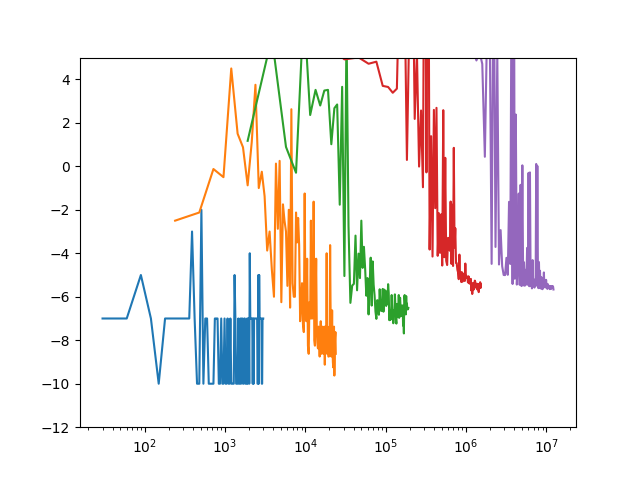
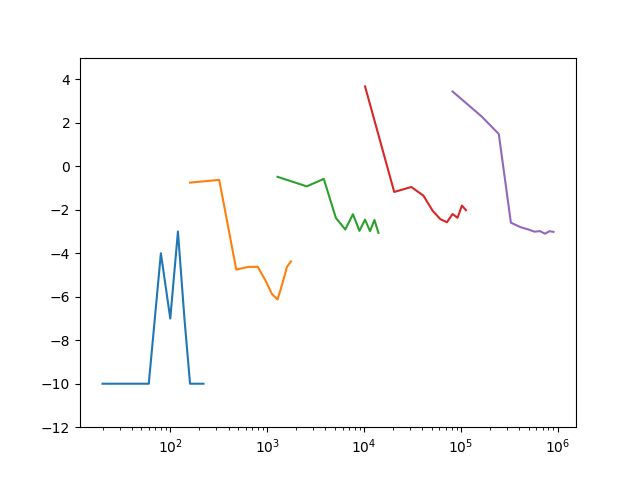
totototo

diff --git a/main.cpp b/main.cpp
@@ -75,11 +75,11 @@ std::ostream& operator<<(std::ostream& os, QUSO quso){
 int toto() {
     int seed = 200;
     int num_init_points = 10;
-    int num_eval = 30;
-    // BaseGenerator* rd = RandGeneratorFactory::CreateRandGenerator(seed, GeneratorKind::LCG);
+    BaseGenerator* rd = RandGeneratorFactory::CreateRandGenerator(seed, GeneratorKind::LCG);
     int size = 8;
-    int layers = 6;
-    int max_iter = 100;
+    int layers = 5;
+    int max_iter = 200;
+    int opt_step = 20;
     QUBO qubo(size);
     for (int i=0; i<size; i++ ){
         qubo.A(i) = 0;
@@ -94,13 +94,12 @@ int toto() {
     HamDiag ham = quso.to_diag_Ham();
     QuantumCircuit qc = qc_data.first.decompose().decompose();
     ShotsVQE exec(qc_data.first, ham);
-    exec.num_eval = num_eval;
     nlopt::opt opti(nlopt::LN_COBYLA, qc_data.second.size());
     // nlopt::LN_BOBYQA
     // nlopt::opt opti(nlopt::LN_NELDERMEAD, qc_data.second.size());
 
     std::vector<double> res;
-    opt::Nlopt_Optimizer nl(opti, exec, qc_data.second, max_iter, 1e-7);
+    opt::Nlopt_Optimizer nl(opti, exec, qc_data.second, opt_step, 1e-7);
     
     double minf;
     DoubleVec x = qc_data.second.get_row_values();
@@ -113,26 +112,31 @@ int toto() {
     DoubleVec _y(max_num_shots/step);
     for (int i=0; i<5;i++ ){
         exec.set_shots(step);
-        exec.num = 0;
         double min_minf=100000000;
-        
         for (int k=0; k < num_init_points; k++){
+            DoubleVec __x;
+            DoubleVec __y;
+            exec.num = 0;
             for (int j=0; j<x.size(); j++){
-                // x[j] = rd->get_double(-pi, pi);
-                x[j] = (double(std::rand())/INT32_MAX-0.5)*pi;
+                x[j] = rd->get_double(-pi, pi);
+                // x[j] = (double(std::rand())/INT32_MAX-0.5)*pi;
             }
             nlopt::result result = nl.optimize(x, minf);
-            std::cout << "found minimum at f(" << x[0] << "," << x[1] << ") = "
-                << std::setprecision(10) << minf << std::endl;
+            __x.push_back(exec.num);
+            __y.push_back(nl.opt.last_optimum_value());
+            for (int j=0; j<max_iter/opt_step; j++){
+                nlopt::result result = nl.optimize(x, minf);
+                __x.push_back(exec.num);
+                __y.push_back(minf);
+                // minf = nl.opt.last_optimum_value()
+            }
             if (min_minf > minf){
                 min_minf = minf;
-                _y = nl.get_res_array();
+                _y = __y;
+                _x = __x;
             }
-            DoubleVec __x;
-            for (int j=1; j<_y.size()+1; j++){
-                __x.push_back(j*(step)*num_eval);
-            }
-            _x = __x;
+            std::cout << "found minimum at f(" << x[0] << "," << x[1] << ") = "
+                << std::setprecision(10) << minf << std::endl;
         }
         step = step*8;
         plt.set_x(_x);
@@ -147,7 +151,7 @@ int toto() {
     plt.save();
     
     std::cout << ans.first << " "<<ans.second<<std::endl;
-    // delete rd;
+    delete rd;
     return 0;
 }
 

diff --git a/quanlib/src/StateSimulator/shots_provider.h b/quanlib/src/StateSimulator/shots_provider.h
@@ -30,24 +30,15 @@ public:
     ShotsVQE(const QuantumCircuit& qc, const Hamiltonian& Ham, size_t shots=1024): StateVQE{qc, Ham}, shots{shots} {}
 
     virtual double evaluate_cost() override {
-        num+= num_eval;
+        num+=shots;
         state_evolve();
-        double res = Ham.eval(sampler(state, shots));
-        double minf = res;
-        for(int i=0; i<num_eval; i++){
-            minf = Ham.eval(sampler(state, shots));
-            if (res > minf){
-                res = minf;
-            }
-        }
-        return res;
+        return Ham.eval(sampler(state, shots));
     }
 
     void set_shots(size_t shots) {
         this->shots = shots;
     }
     int num = 0; 
-    int num_eval=0;
 private:
     size_t shots;
 };

diff --git a/quanlib/src/VQE/vqe.h b/quanlib/src/VQE/vqe.h
@@ -85,8 +85,8 @@ namespace opt{
         DoubleVec get_res_array(){
             return qod.res_array;
         }
-    private:
         nlopt::opt opt;
+    private:
         quantum_obj_data qod;
     };
 };
